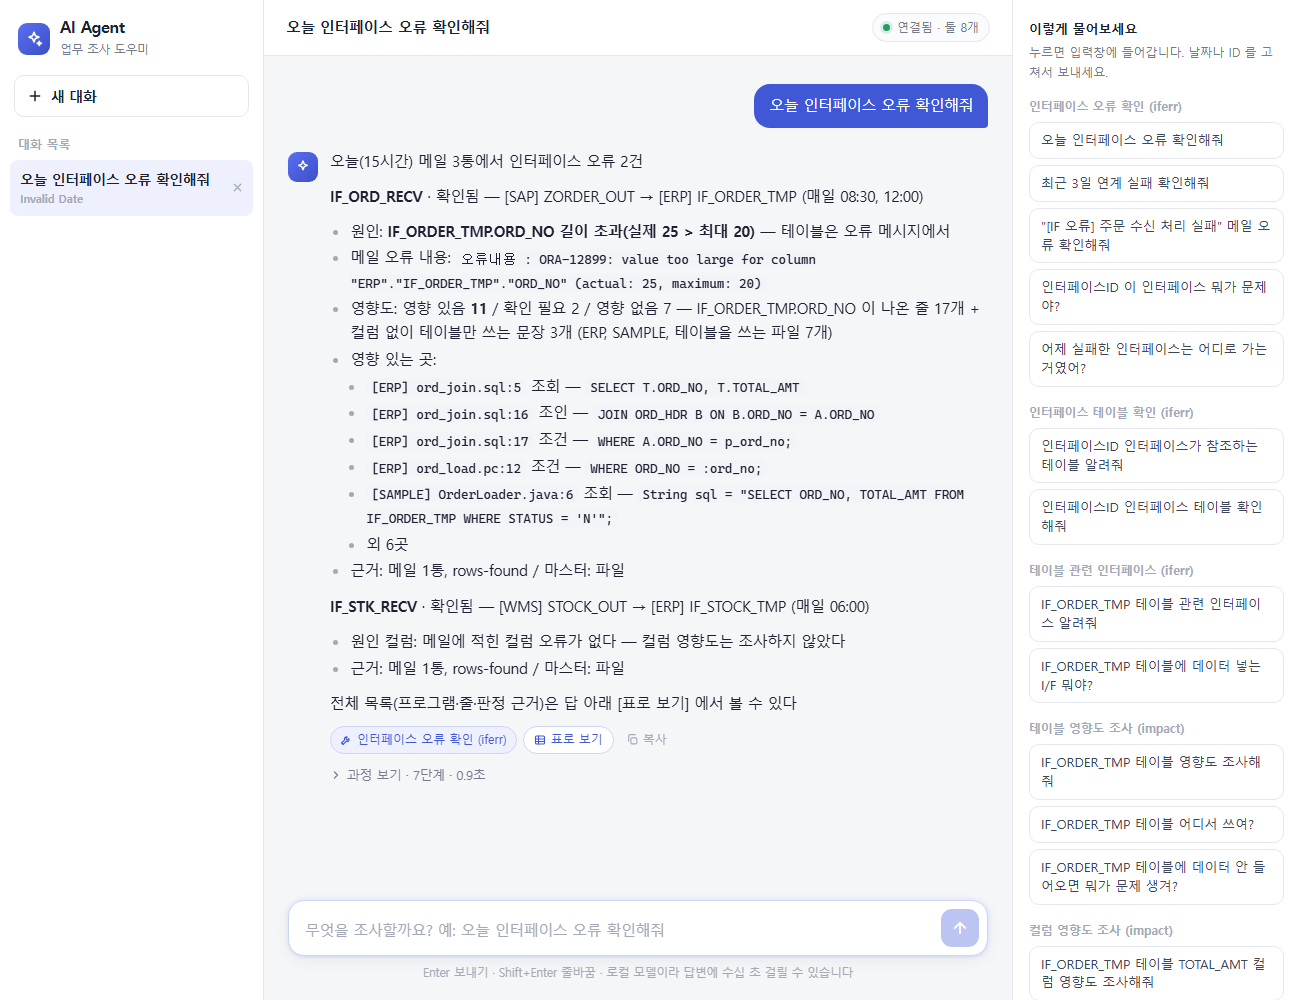
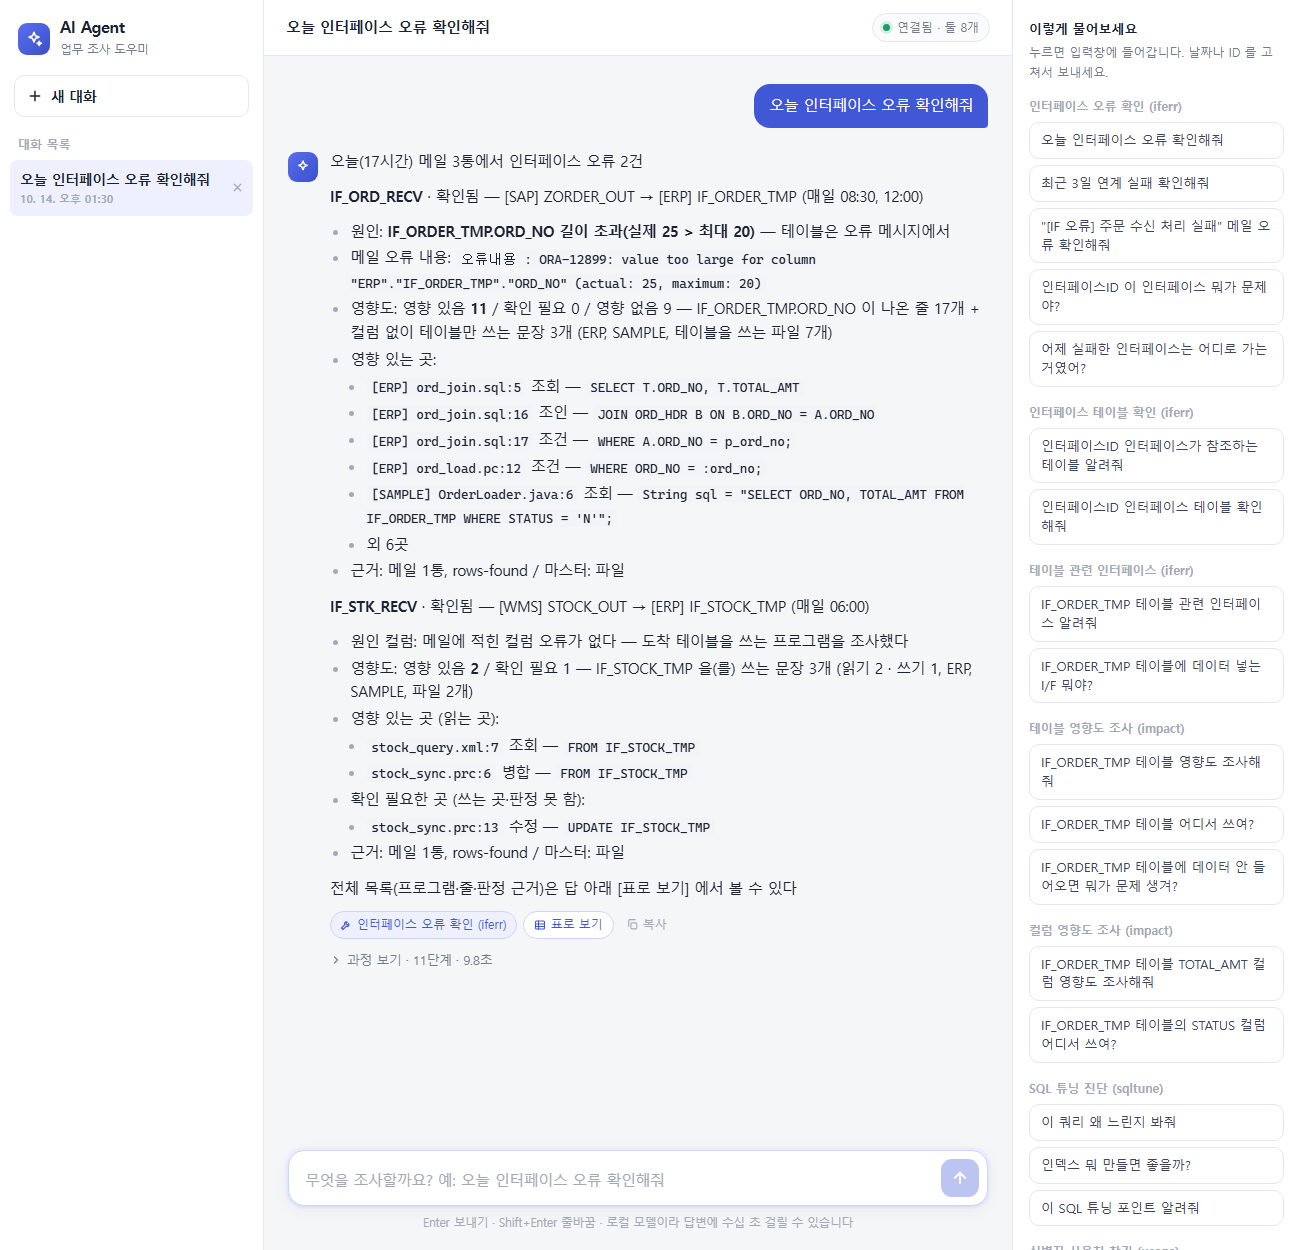
발표 자료의 시연 화면·문구를 원인 컬럼이 없는 오류도 도착 테이블 영향도까지 나오는 지금 답으로 맞춤 — 이전 캡처는 재고 오류의 영향도가 비어 있던 화면이었음
Claude-Session: https://claude.ai/code/session_019StpaKKWjAj2zoBErqJsdz

diff --git a/docs/presentation/deck.html b/docs/presentation/deck.html
@@ -268,7 +268,7 @@
 <p style="font-size:72px;font-weight:800;line-height:1.1;background:linear-gradient(90deg, #0071E3 0%, #A259FF 100%);background-clip:text;-webkit-text-fill-color:transparent">01</p>
 <h3 style="font-size:34px;font-weight:700;color:#1D1D1F">한마디</h3>
 <p style="font-size:24px;line-height:1.45;color:#1D1D1F;background:#ECECF1;border-radius:16px;padding:14px 18px">“오늘 인터페이스 오류 확인해줘”</p>
-<p style="font-size:24px;line-height:1.5;color:#515154">오류 2건, 원인 IF_ORDER_TMP.ORD_NO 길이 초과(25 &gt; 20), 영향 있는 곳까지</p>
+<p style="font-size:24px;line-height:1.5;color:#515154">오류 2건 — 주문은 원인 컬럼(길이 초과 25 &gt; 20), 재고는 도착 테이블로 영향도까지</p>
 </div>
 <div style="flex:1;display:flex;flex-direction:column;gap:18px;background:#FBFBFD;border-radius:28px;padding:40px 36px;box-shadow:0 2px 20px rgba(0,0,0,0.06)">
 <p style="font-size:72px;font-weight:800;line-height:1.1;background:linear-gradient(90deg, #0071E3 0%, #A259FF 100%);background-clip:text;-webkit-text-fill-color:transparent">02</p>
@@ -291,19 +291,19 @@
 </div>
 <aside>시연은 네 장면입니다. 첫째, 한마디로 오늘 오류를 확인합니다. 둘째, 표로 보기에서 전체 목록과 근거를 봅니다. 셋째, 의심 줄을 더블클릭해 소스를 봅니다. 넷째, 특정 메일 제목으로 그 메일만 조사합니다. 시간은 [__분] 으로 잡았습니다.</aside>
 </section>
-<section class="slide" id="demo-chat" data-transition="fade" style="background:#F5F5F7;color:#1D1D1F;font-family:'Noto Sans KR', Arial, sans-serif;padding:128px;display:flex;flex-direction:row;align-items:center;gap:56px">
-<div style="width:560px;display:flex;flex-direction:column;gap:28px">
+<section class="slide" id="demo-chat" data-transition="fade" style="background:#F5F5F7;color:#1D1D1F;font-family:'Noto Sans KR', Arial, sans-serif;padding:128px;display:flex;flex-direction:row;align-items:center;justify-content:center;gap:72px">
+<div style="width:640px;display:flex;flex-direction:column;gap:28px">
 <p style="font-size:28px;font-weight:600;color:#0071E3">시연 01 · 한마디</p>
 <h2 style="font-size:56px;font-weight:700;line-height:1.2;letter-spacing:-1px;color:#1D1D1F">원인부터 영향까지,<br>한 화면에.</h2>
 <ul style="font-size:26px;line-height:1.55;color:#515154">
 <li>오류마다 원인과 메일 원문 줄</li>
-<li>영향 있는 곳은 위치와 코드로</li>
-<li>원인 컬럼이 없는 오류도 그 사실을 적음</li>
+<li>원인 컬럼이 있으면 그 컬럼을 쓰는 줄마다 영향 판정</li>
+<li>원인 컬럼이 없으면 도착 테이블을 읽는 곳·쓰는 곳으로</li>
 <li>같은 질문엔 늘 같은 모양의 답</li>
 </ul>
 </div>
-<img src="img/demo-chat.png" alt="챗봇에 '오늘 인터페이스 오류 확인해줘'라고 물은 답 화면: 오류 2건, 원인 IF_ORDER_TMP.ORD_NO 길이 초과, 영향 있는 곳 목록" style="width:1048px;height:806px;object-fit:contain;border-radius:24px;background:#FFFFFF;box-shadow:0 20px 60px rgba(0,0,0,0.12)">
-<aside>실제 답 화면입니다. 오류마다 굵은 제목 아래에 원인, 메일의 오류 원문, 영향도 건수, 영향 있는 곳이 나옵니다. 재고 오류처럼 원인 컬럼이 메일에 없으면 그 사실을 적습니다. 결과를 모델이 다시 쓰지 않아 같은 질문에는 늘 같은 모양으로 나옵니다.</aside>
+<img src="img/demo-chat.png" alt="챗봇에 '오늘 인터페이스 오류 확인해줘'라고 물은 답 화면: 주문 오류는 원인 IF_ORDER_TMP.ORD_NO 길이 초과와 영향 있는 곳, 재고 오류는 도착 테이블 IF_STOCK_TMP 를 읽는 곳과 쓰는 곳" style="width:838px;height:806px;object-fit:contain;border-radius:24px;background:#FFFFFF;box-shadow:0 20px 60px rgba(0,0,0,0.12)">
+<aside>실제 답 화면입니다. 오류 두 건이 같은 모양으로 나옵니다. 주문 오류는 메일에 적힌 원인 컬럼, 길이 초과로 그 컬럼을 쓰는 줄마다 영향을 판정했습니다. 재고 오류는 메일에 컬럼 정보가 없는 timeout 이라, 도착 테이블 IF_STOCK_TMP 를 읽는 곳은 영향 있음, 쓰는 곳은 확인 필요로 나눴습니다. 결과를 모델이 다시 쓰지 않아 같은 질문에는 늘 같은 모양으로 나옵니다.</aside>
 </section>
 <section class="slide" id="demo-source" data-transition="fade" style="background:#F5F5F7;color:#1D1D1F;font-family:'Noto Sans KR', Arial, sans-serif;padding:128px;display:flex;flex-direction:row;align-items:center;gap:56px">
 <div style="width:560px;display:flex;flex-direction:column;gap:28px">
